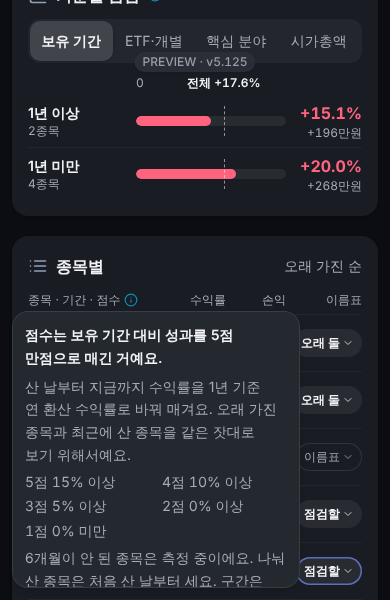
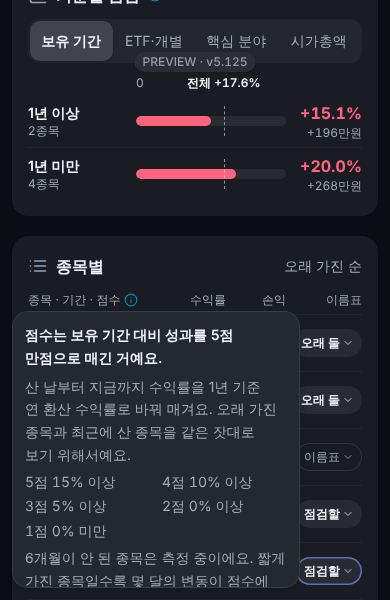
memory: #239 UI 승인 @cb36907

Changed region(s): [[0.0615, 0.9, 0.7385, 0.99]]

diff --git a/issues/5.125-239-grow-my-assets/5.125-ui-review.md b/issues/5.125-239-grow-my-assets/5.125-ui-review.md
@@ -398,3 +398,14 @@ R-1 수정 커밋 뒤 팝오버 2개를 320에서 다시 열어 캡처를 추가
   - developer가 잰 472와 다른 것은 ⓘ를 화면 어디에서 열었느냐(스크롤 위치) 차이다. 어느 쪽이든 화면 밖으로 잘리는 글자는 0이다.
 
 **UI 승인 @814847b** — 재설계 3차 UI 검수 항목 전부(c43d375 수정 요청 3건 + 39f2ef5 구간표).
+
+### 점수 ⓘ 문장 추가 재검수 (head `cb36907`)
+- 원격 head는 `cb36907`로 일치하고 pageerror는 0이다. 배포 화면에 `몇 달의 변동` 문장이 있는 것을 확인한 뒤 쟀다(첫 회차의 320·390은 옛 캐시라 버렸다). 도구는 `tools/ui-review-r3x4.mjs`·`ui-review-r3x4-scroll.mjs`, 캡처는 `r3x4-score-*`.
+- 팝오버 위치:
+  - 320: 264~627(363px), 화면 안
+  - 1280: 208~642(434px), 화면 안
+  - 390×600: 아래 끝 588(277px)로 화면 안. 넘치는 86px은 팝오버 안에서 스크롤되고, 끝까지 내리면 마지막 문장 `…장기 순자산 성장과 같아요.`가 575에 보인다.
+- 세 크기 모두 끊긴 어절이 0이고, 구간표 2열 격자가 유지된다.
+- 관찰(수정 요청 아님): 마우스 기기에서는 ⓘ를 hover로 열기 때문에, 포인터가 트리거를 떠나면 팝오버가 닫혀 안쪽 스크롤을 쓸 수 없다. 높이 600 이하 데스크톱 창에서만 생기고 1280×900은 스크롤이 없다. 공용 InfoHint의 기존 동작이라 이번 범위 밖이다.
+
+**UI 승인 @cb36907**
